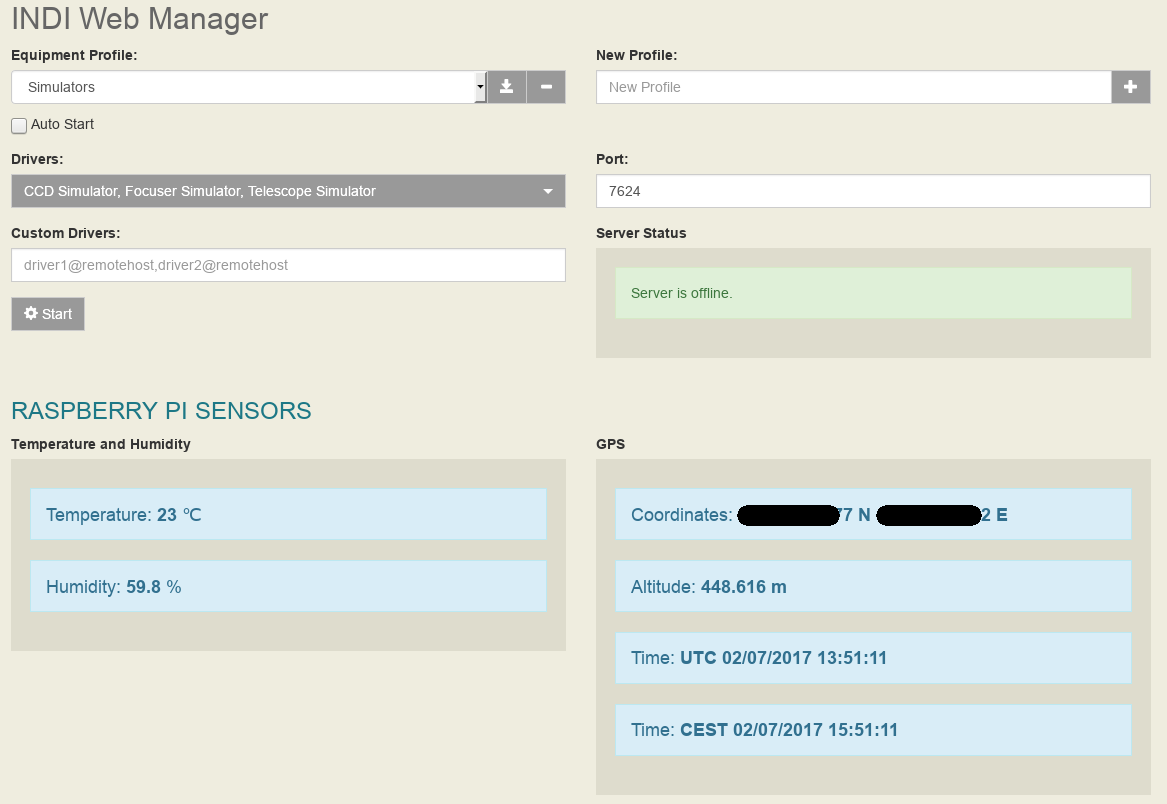
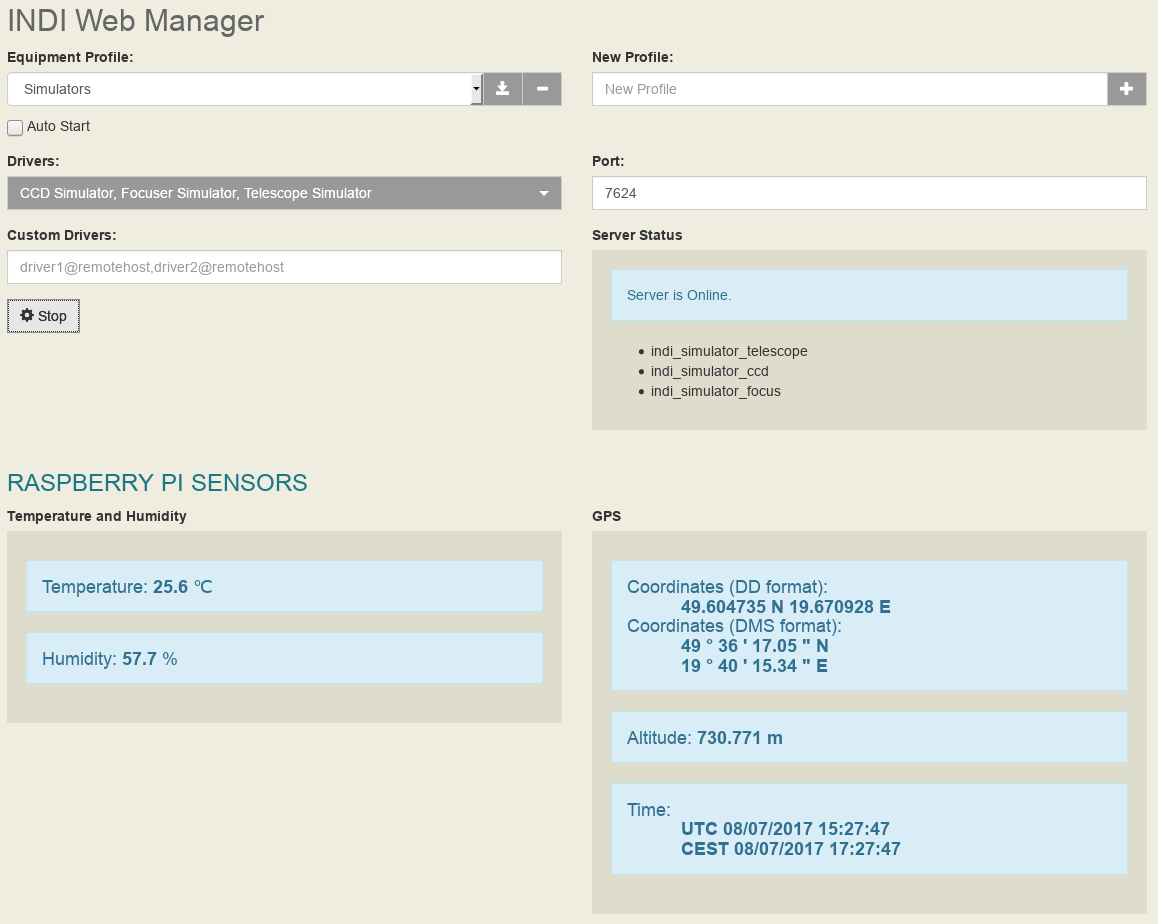
Added data display from gps in two formats: DD and DMS. Small interface changes.

diff --git a/servermanager/views/js/indi.js b/servermanager/views/js/indi.js
@@ -305,32 +305,43 @@ function getSensorsGPS() {
 
     $.getJSON("/api/sensors/gps/gps", function(data) {
         var msg = "<h4 class='alert alert-info'>";
-	msg += "Coordinates: <b>";
+	msg += "Coordinates (DD format): <br><b>";
+	msg += "<span style=\"padding-left:3em\">";
 	msg += data[0] + " ";
-	msg += data[1] + " ";
-	msg += data[2] + " ";
-	msg += data[3];
-	msg += "</b></h4>"
+	msg += data[4] + " ";
+	msg += data[5] + " ";
+	msg += data[9] + "</span></b><br>";
+	msg += "Coordinates (DMS format): <br><b>";
+	msg += "<span style=\"padding-left:3em\"> ";
+	msg += data[1] + " &#176 ";
+	msg += data[2] + " &#39 ";
+	msg += data[3] + " &#34 ";
+	msg += data[4] + "</span><br>";
+	msg += "<span style=\"padding-left:3em\"> ";
+	msg += data[6] + " &#176 ";
+	msg += data[7] + " &#39 ";
+	msg += data[8] + " &#34 ";
+	msg += data[9] + "</span>";
+	msg += "</b></h4>";
 
 	msg += "<h4 class='alert alert-info'>";
 	msg += "Altitude: <b>"
-	msg += data[4] + " ";
-	msg += data[5];
+	msg += data[10] + " ";
+	msg += data[11];
 	msg += "</b></h4>";
 
 	msg += "<h4 class='alert alert-info'>";
-	msg += "Time: <b> ";
-	msg += data[8] + " ";
-	msg += data[6] + " ";
-	msg += data[7];
-	msg += "</b></h4>";
-
-	msg += "<h4 class='alert alert-info'>";
-     	msg += "Time: <b>";
-     	msg += data[11] + " ";
-	msg += data[9] + " ";
-	msg += data[10];
-	msg += "</b></h4>";
+	msg += "Time: <b><br>";
+	msg += "<span style=\"padding-left:3em\">";
+	msg += data[14] + " ";
+	msg += data[12] + " ";
+	msg += data[13];
+	msg += "</span><br>";
+	msg += "<span style=\"padding-left:3em\">";
+	msg += data[17] + " ";
+	msg += data[15] + " ";
+	msg += data[16];
+	msg += "</span></b></h4>";
 
         $("#sensors_gps_notify").html(msg);
 

diff --git a/servermanager/drivermanager.py b/servermanager/drivermanager.py
@@ -472,8 +472,15 @@ def get_gps_neo6mgps():
 
 	# Convert LONGITUDE / LATITUDE / ALTITUDE
 	latitude = 0.0
+	lat_deg = 0
+	lat_min = 0
+	lat_sec = 0.0
 	lat_sym = 'N'
+
 	longitude = 0.0
+	lon_deg = 0
+	lon_min = 0
+	lon_sec = 0.0
 	lon_sym = 'E'
 	altitude = 0.0
 	alt_sym = 'm'
@@ -497,23 +504,47 @@ def get_gps_neo6mgps():
 				flag = 1 # Set flag to 1 when achived max iteration
 
 
-	# Set info
+	# Set info and convert coordinates to format deegres / minutes / seconds
 	if math.isnan(latitude):
-		latitude = 'Signal Unavailable'
-		lat_sym = '-'
-	elif latitude < 0.0:
-		lat_sym = 'S'
-		latitude = math.fabs(latitude)
+		latitude = '-'
+		lat_sym = ' '
+	else:
+		if latitude < 0.0:
+			lat_sym = 'S'
+			latitude = math.fabs(latitude)
+
+		lat_deg = int(latitude)
+		lat_sec = ((latitude-lat_deg)*10000.0)*0.36
+		lat_min = int(lat_sec/60.0)
+		lat_sec = lat_sec-(60*lat_min)
+
+		# Rounding results
+		latitude = round(latitude,6)
+		lat_sec = round(lat_sec,2)
+
 	if math.isnan(longitude):
-		longitude = 'Signal Unavailable'
-		lon_sym = '-'
-	elif longitude < 0.0:
-		lon_sym = 'W'
-		longitude = math.fabs(longitude)
+		longitude = '-'
+		lon_sym = ' '
+	else:
+		if longitude < 0.0:
+			lon_sym = 'W'
+			longitude = math.fabs(longitude)
+
+		lon_deg = int(longitude)
+		lon_sec = ((longitude-lon_deg)*10000)*0.36
+		lon_min = int(lon_sec/60.0)
+		lon_sec = lon_sec-(60*lon_min)
+
+		# Rounding results
+		longitude = round(longitude,6)
+		lon_sec = round(lon_sec,2)
+
 	if math.isnan(altitude):
 		altitude = 'Signal Unavailable'
 		alt_sym = '-'
 	else:
+		# Rounding result
+		altitude = round(altitude,4)
         	alt_sym = 'm'
 
 	# Covert DATE
@@ -542,7 +573,7 @@ def get_gps_neo6mgps():
        	local_cur_zone = local_time.strftime('%Z')
 
 	# Write data to JSON
-	json_string = json.dumps([latitude, lat_sym, longitude, lon_sym, altitude, alt_sym, utc_cur_date, utc_cur_time, utc_cur_zone, local_cur_date, local_cur_time, local_cur_zone])
+	json_string = json.dumps([latitude, lat_deg, lat_min, lat_sec, lat_sym, longitude, lon_deg, lon_min, lon_sec, lon_sym, altitude, alt_sym, utc_cur_date, utc_cur_time, utc_cur_zone, local_cur_date, local_cur_time, local_cur_zone])
 	if (json_string == "null"):
                 return []
         else:
